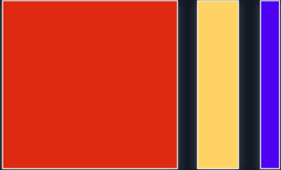
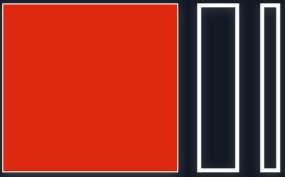
update toolkit hero - swap new image and adjust spacing (needs mobile update)

diff --git a/_includes/toolkit-hero.html b/_includes/toolkit-hero.html
@@ -1,14 +1,14 @@
-<section class="interior-hero bg-base-darkest">
+<section class="interior-hero padding-top-4 bg-base-darkest">
   <div class="grid-container padding-bottom-5">
-    <img src="{{site.baseurl}}/assets/img/toolkits/{{ page.image }}" class="grid-col-3 display-inline" alt="{{ page.image-alt }}">
-    <div class="grid-offset-1 desktop:grid-col-7 grid-col-3 display-inline-block">
+    <img src="{{site.baseurl}}/assets/img/toolkits/{{ page.image }}" class="toolkit-hero-image grid-col-3" alt="{{ page.image-alt }}">
+    <div class="grid-offset-1 desktop:grid-col-8 grid-col-3 display-inline-block">
       <h1
-        class="hero--heading margin-top-10 line-height-sans-3 text-semi-bold ls-2 font-lang-13 text-white"
+        class="hero--heading line-height-sans-3 text-semi-bold ls-2 font-lang-13 text-white"
       >
         {{ page.header }}
       </h1>
       {% for p in page.lead %}
-        <p class="font-sans-md text-white">{{ p }}</p>
+        <p class="font-sans-xs text-white">{{ p }}</p>
       {% endfor %}
     </div>
   </div>

diff --git a/css/_uswds-theme-custom-styles.scss b/css/_uswds-theme-custom-styles.scss
@@ -1247,6 +1247,17 @@ body {
   }
 
 
+// TOOLKITS ----------------- //
+
+.toolkit-hero-image {
+  margin-left: -100px;
+  margin-bottom: units(5);
+  margin-right: units(5);
+  display: inline;
+
+}
+
+
 // Styleguide Content -------- //
 
 .styleguide-content {
